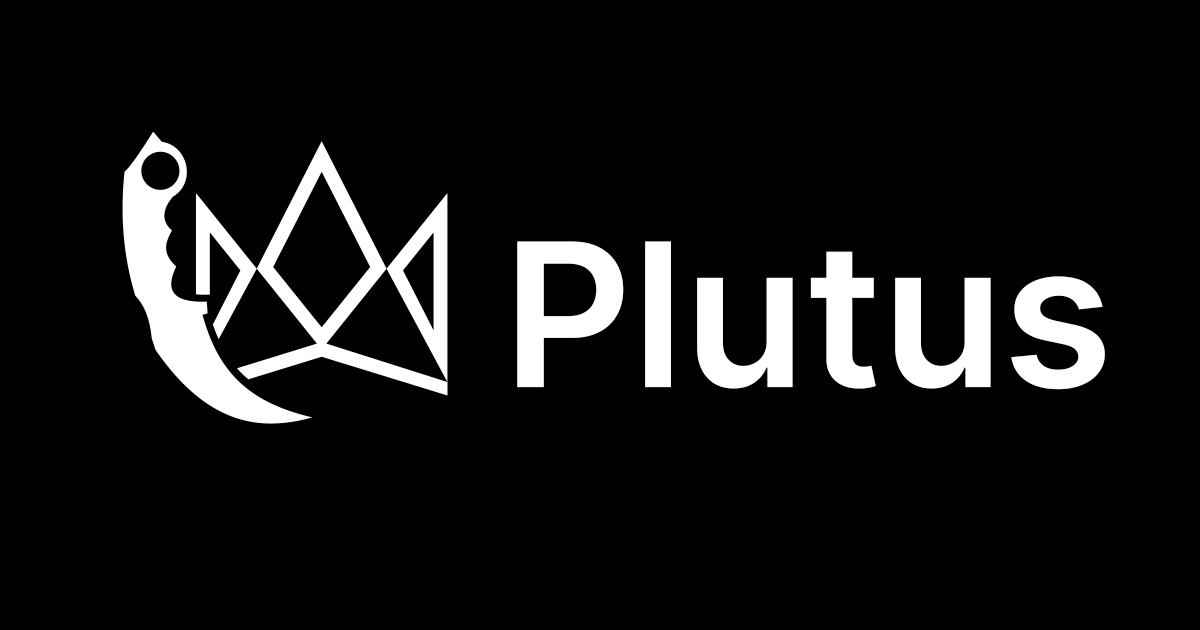
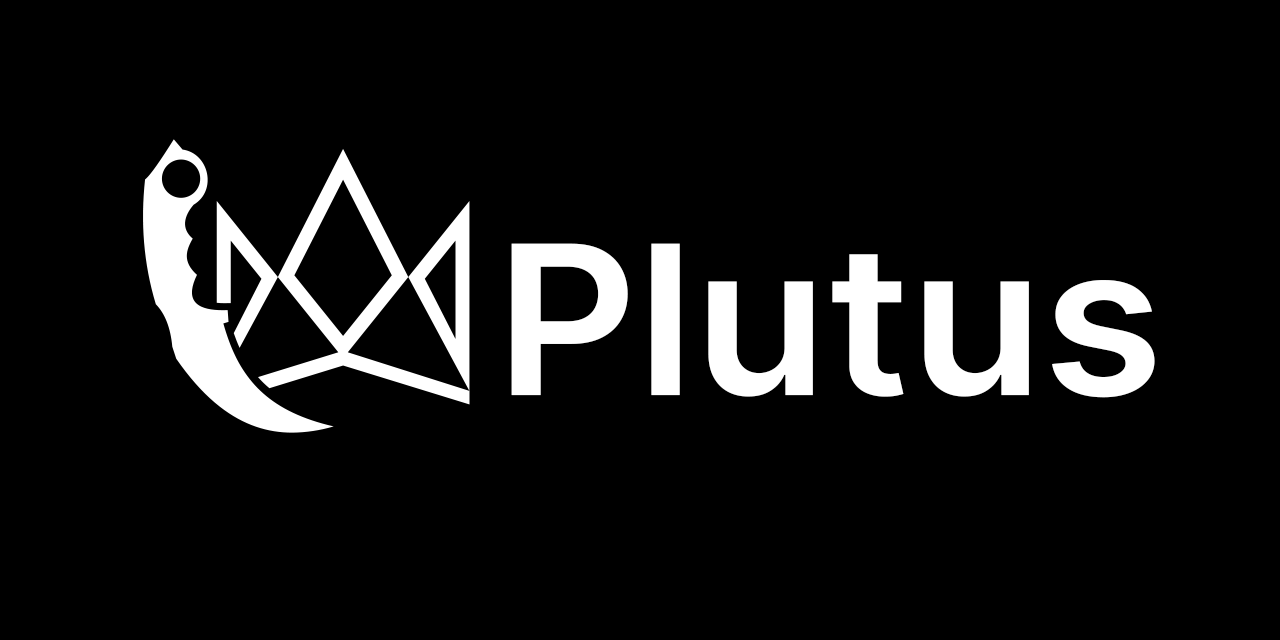
og2

Changed region(s): [[0.0925, 0.2111, 0.925, 0.6333], [0.2158, 0.6333, 0.2467, 0.6937], [0.1542, 0.6032, 0.185, 0.6333]]

diff --git a/src/pages/_app.tsx b/src/pages/_app.tsx
@@ -25,15 +25,23 @@ const MyApp: AppType<{ session: Session | null }> = ({
         }
       `}</style>
       <Head>
-      <meta property="og:title" content="Plutus" />
+        <meta property="og:title" content="Plutus" />
+        <title>Plutus</title>
+        <meta property="og:site_name" content="Plutus"></meta>
         <meta
           property="og:description"
-          content="The ultimate tool for CS:GO players and investors"
+          content="The ultimate tool for CS:GO players and investors."
         />
         <meta
           property="og:image"
           content="https://plutus.lukasgreicius.com/plutus-banner.png"
         />
+        <meta property="og:image:width" content="1280"></meta>
+        <meta property="og:image:height" content="640"></meta>
+        <meta
+          name="description"
+          content="The ultimate tool for CS:GO players and investors."
+        ></meta>
       </Head>
       <ThemeProvider enableSystem={true} attribute="class">
         <SessionProvider session={session}>
